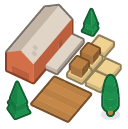
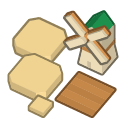
uudet strucuretypet

diff --git a/test/models/map/StructureFactoryTest.js b/test/models/map/StructureFactoryTest.js
@@ -1,7 +1,9 @@
 const assert = require("assert")
+const sinon = require("sinon")
 import StructureFactory from '../../../src/models/map/StructureFactory'
+import StructureTypes from '../../../src/models/map/StructureType'
 
-describe('StructureBuilder tests', () =>{
+describe('StructureFactory tests', () =>{
 
   /**
    * @see StructureType.createUpdateFn
@@ -29,21 +31,37 @@ describe('StructureBuilder tests', () =>{
     assert.equal('test', sbuilder.tile.structure.structureType.name)
   })
 
+  var spy
+  var builder
+  var types
+  var setSpy = function(){
+    types = StructureTypes()
+    spy = sinon.spy()
+    builder = new StructureFactory({structureTypes: types})
+    builder.buildBuilding = spy
+  }
+
   it('Build Farm works', () =>{
-    var sbuilder = new StructureFactory ({
-      tile : {},
-      structureTypes : {farm: {name: 'farm', createUpdateFn:createUpdateFn}}
-    })
-    sbuilder.buildFarm()
-    assert.equal('farm', sbuilder.tile.structure.structureType.name)
+    setSpy()
+
+    builder.buildFarm()
+
+    assert(spy.calledWith(types.farm))
   })
 
-  it('Build Granary works', () =>{
-    var sbuilder = new StructureFactory ({
-        tile : {},
-        structureTypes : {granary: {name: 'granary', createUpdateFn:createUpdateFn}}
-    })
-    sbuilder.buildGranary()
-    assert.equal('granary', sbuilder.tile.structure.structureType.name)
+  it('Build dairy farm works', () =>{
+    setSpy()
+
+    builder.buildDairyFarm()
+
+    assert(spy.calledWith(types.dairyFarm))
+  })
+
+  it('Build berry farm works', () =>{
+    setSpy()
+
+    builder.buildBerryFarm()
+
+    assert(spy.calledWith(types.berryFarm))
   })
 })

diff --git a/src/models/menu/ActionCreators/GrassActions.js b/src/models/menu/ActionCreators/GrassActions.js
@@ -12,9 +12,15 @@ import ButtonAction from '../ButtonAction'
 export default function GrassActions (tile, structureTypes) {
   var sBuilder = new StructureFactory({tile: tile, structureTypes: structureTypes})
 
-  var createGranary = new ButtonAction({
-    name : "Build a granary",
-    functionToCall: sBuilder.buildGranary,
+  var createDairyFarm = new ButtonAction({
+    name : "Build a dairy farm",
+    functionToCall: sBuilder.buildDairyFarm,
+    context: sBuilder
+  })
+
+  var createBerryFarm = new ButtonAction({
+    name : "Build a berry farm",
+    functionToCall: sBuilder.buildBerryFarm,
     context: sBuilder
   })
 
@@ -24,5 +30,5 @@ export default function GrassActions (tile, structureTypes) {
     context: sBuilder
   })
 
-  return [createGranary, createFarm]
+  return [createDairyFarm, createBerryFarm, createFarm]
 }

diff --git a/src/models/map/StructureType.js b/src/models/map/StructureType.js
@@ -37,9 +37,9 @@ export default function (gameState) {
     }
   })
 
-  var granary = new StructureType({
-    name: 'granary', 
-    asset: 'granary',
+  var berryFarm = new StructureType({
+    name: 'berry farm', 
+    asset: 'berry_farm',
     createUpdateFn: function(){
       return function(){
         gameState.player.addPoints(1) // placeholder
@@ -47,8 +47,20 @@ export default function (gameState) {
     }
   })
 
+  var dairyFarm = new StructureType({
+    name: 'dairy farm', 
+    asset: 'dairy_farm',
+    createUpdateFn: function(){
+      return function(){
+        gameState.player.addPoints(1) // placeholder
+      }
+    }
+  })
+
+
   return {
       farm: farm,
-      granary: granary
+      berryFarm: berryFarm,
+      dairyFarm: dairyFarm
   }
 }

diff --git a/src/models/menu/ActionCreators/ForestActions.js b/src/models/menu/ActionCreators/ForestActions.js
@@ -12,11 +12,11 @@ import ButtonAction from '../ButtonAction'
 export default function ForestActions (tile, structureTypes) {
   var sbuilder = new StructureFactory({tile: tile, structureTypes: structureTypes})
 
-  var createGranary = new ButtonAction({
-    name: 'Build a granary',
-    functionToCall: sbuilder.buildGranary,
+  var createDairyFarm = new ButtonAction({
+    name: 'Build a dairy farm',
+    functionToCall: sbuilder.buildDairyFarm,
     context: sbuilder
   })
 
-  return [createGranary]
+  return [createDairyFarm]
 }

diff --git a/src/states/Splash.js b/src/states/Splash.js
@@ -31,7 +31,8 @@ export default class extends Phaser.State {
     this.load.image('water', 'assets/images/tiles/water.png')
     this.load.image('grass', 'assets/images/tiles/grass.png')
     this.load.image('farm', 'assets/images/structures/farm.png')
-    this.load.image('granary', 'assets/images/structures/granary.png')
+    this.load.image('berry_farm', 'assets/images/structures/berry_farm.png')
+    this.load.image('dairy_farm', 'assets/images/structures/dairy_farm.png')
   }
 
   /**

diff --git a/src/models/map/StructureFactory.js b/src/models/map/StructureFactory.js
@@ -23,8 +23,12 @@ export default class StructureFactory {
   /**
    * Description goes here
    */
-  buildGranary () {
-    this.buildBuilding(this.structureTypes.granary)
+  buildDairyFarm () {
+    this.buildBuilding(this.structureTypes.dairyFarm)
+  }
+
+  buildBerryFarm () {
+    this.buildBuilding(this.structureTypes.berryFarm)
   }
 
   /**

diff --git a/test/models/map/StructureTypeTest.js b/test/models/map/StructureTypeTest.js
@@ -6,7 +6,7 @@ describe('StructureType tests', () =>{
   it('All structures are created', () =>{
     var structures = StructureType()
 
-    assert.equal(2, Object.keys(structures).length)
+    assert.equal(3, Object.keys(structures).length)
   })
 
   it('Create update function is never undefined', () => {
